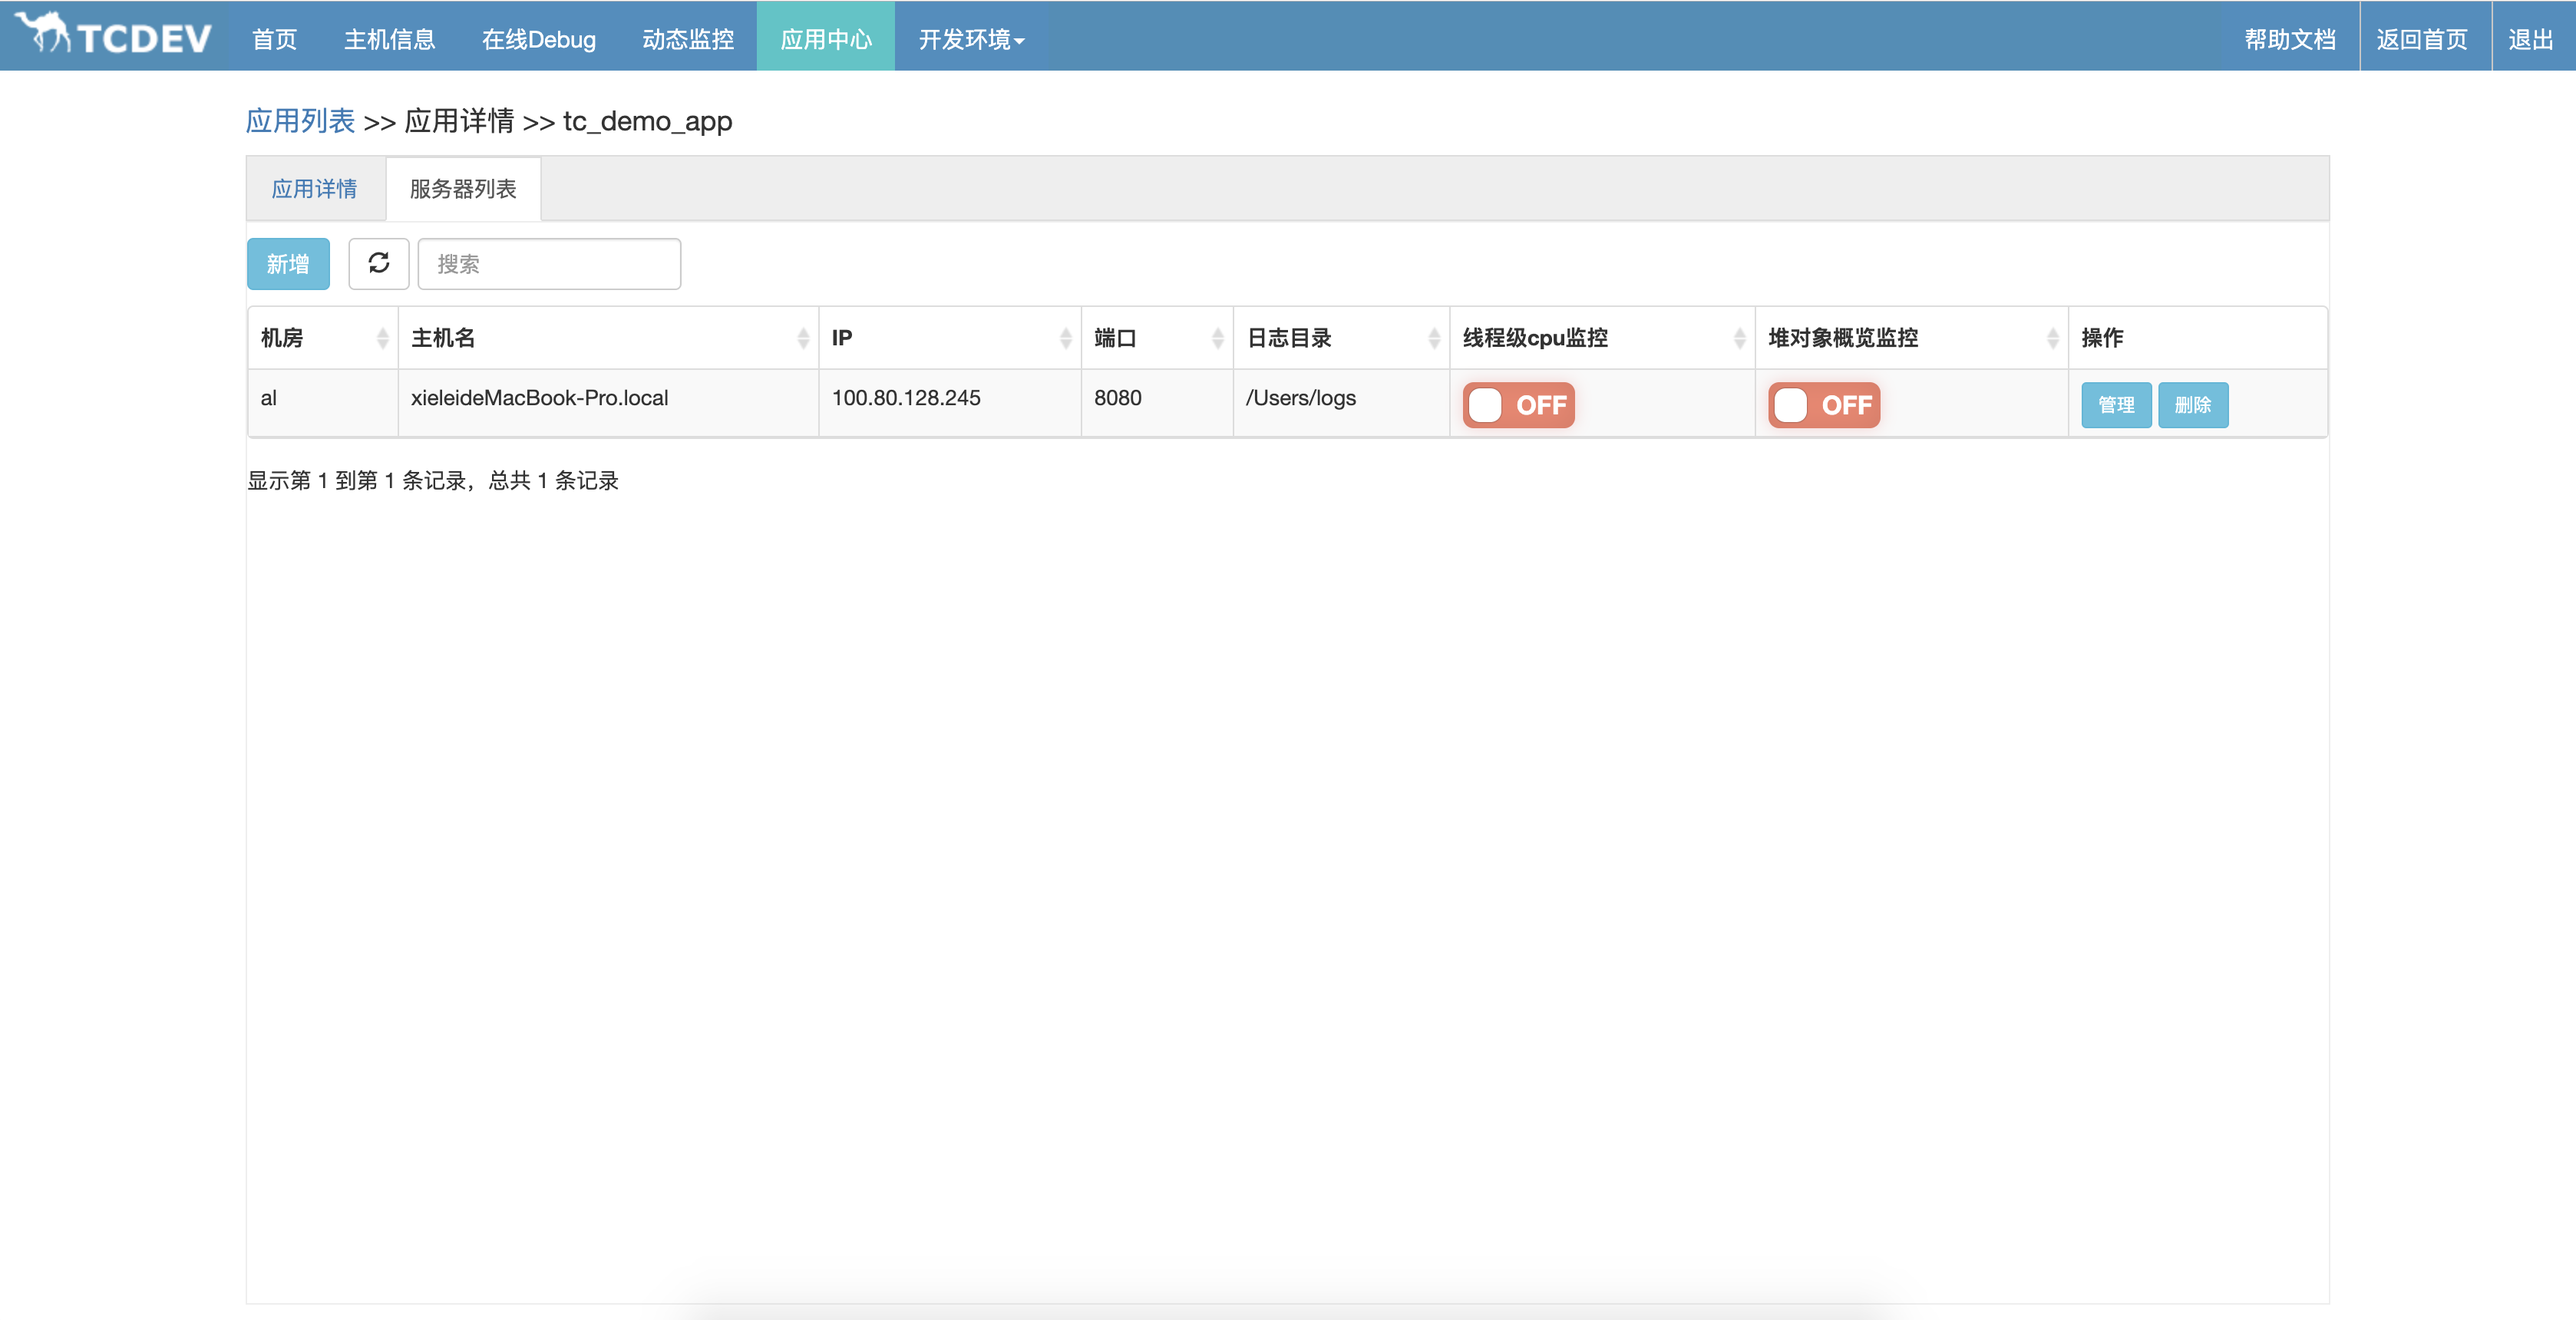
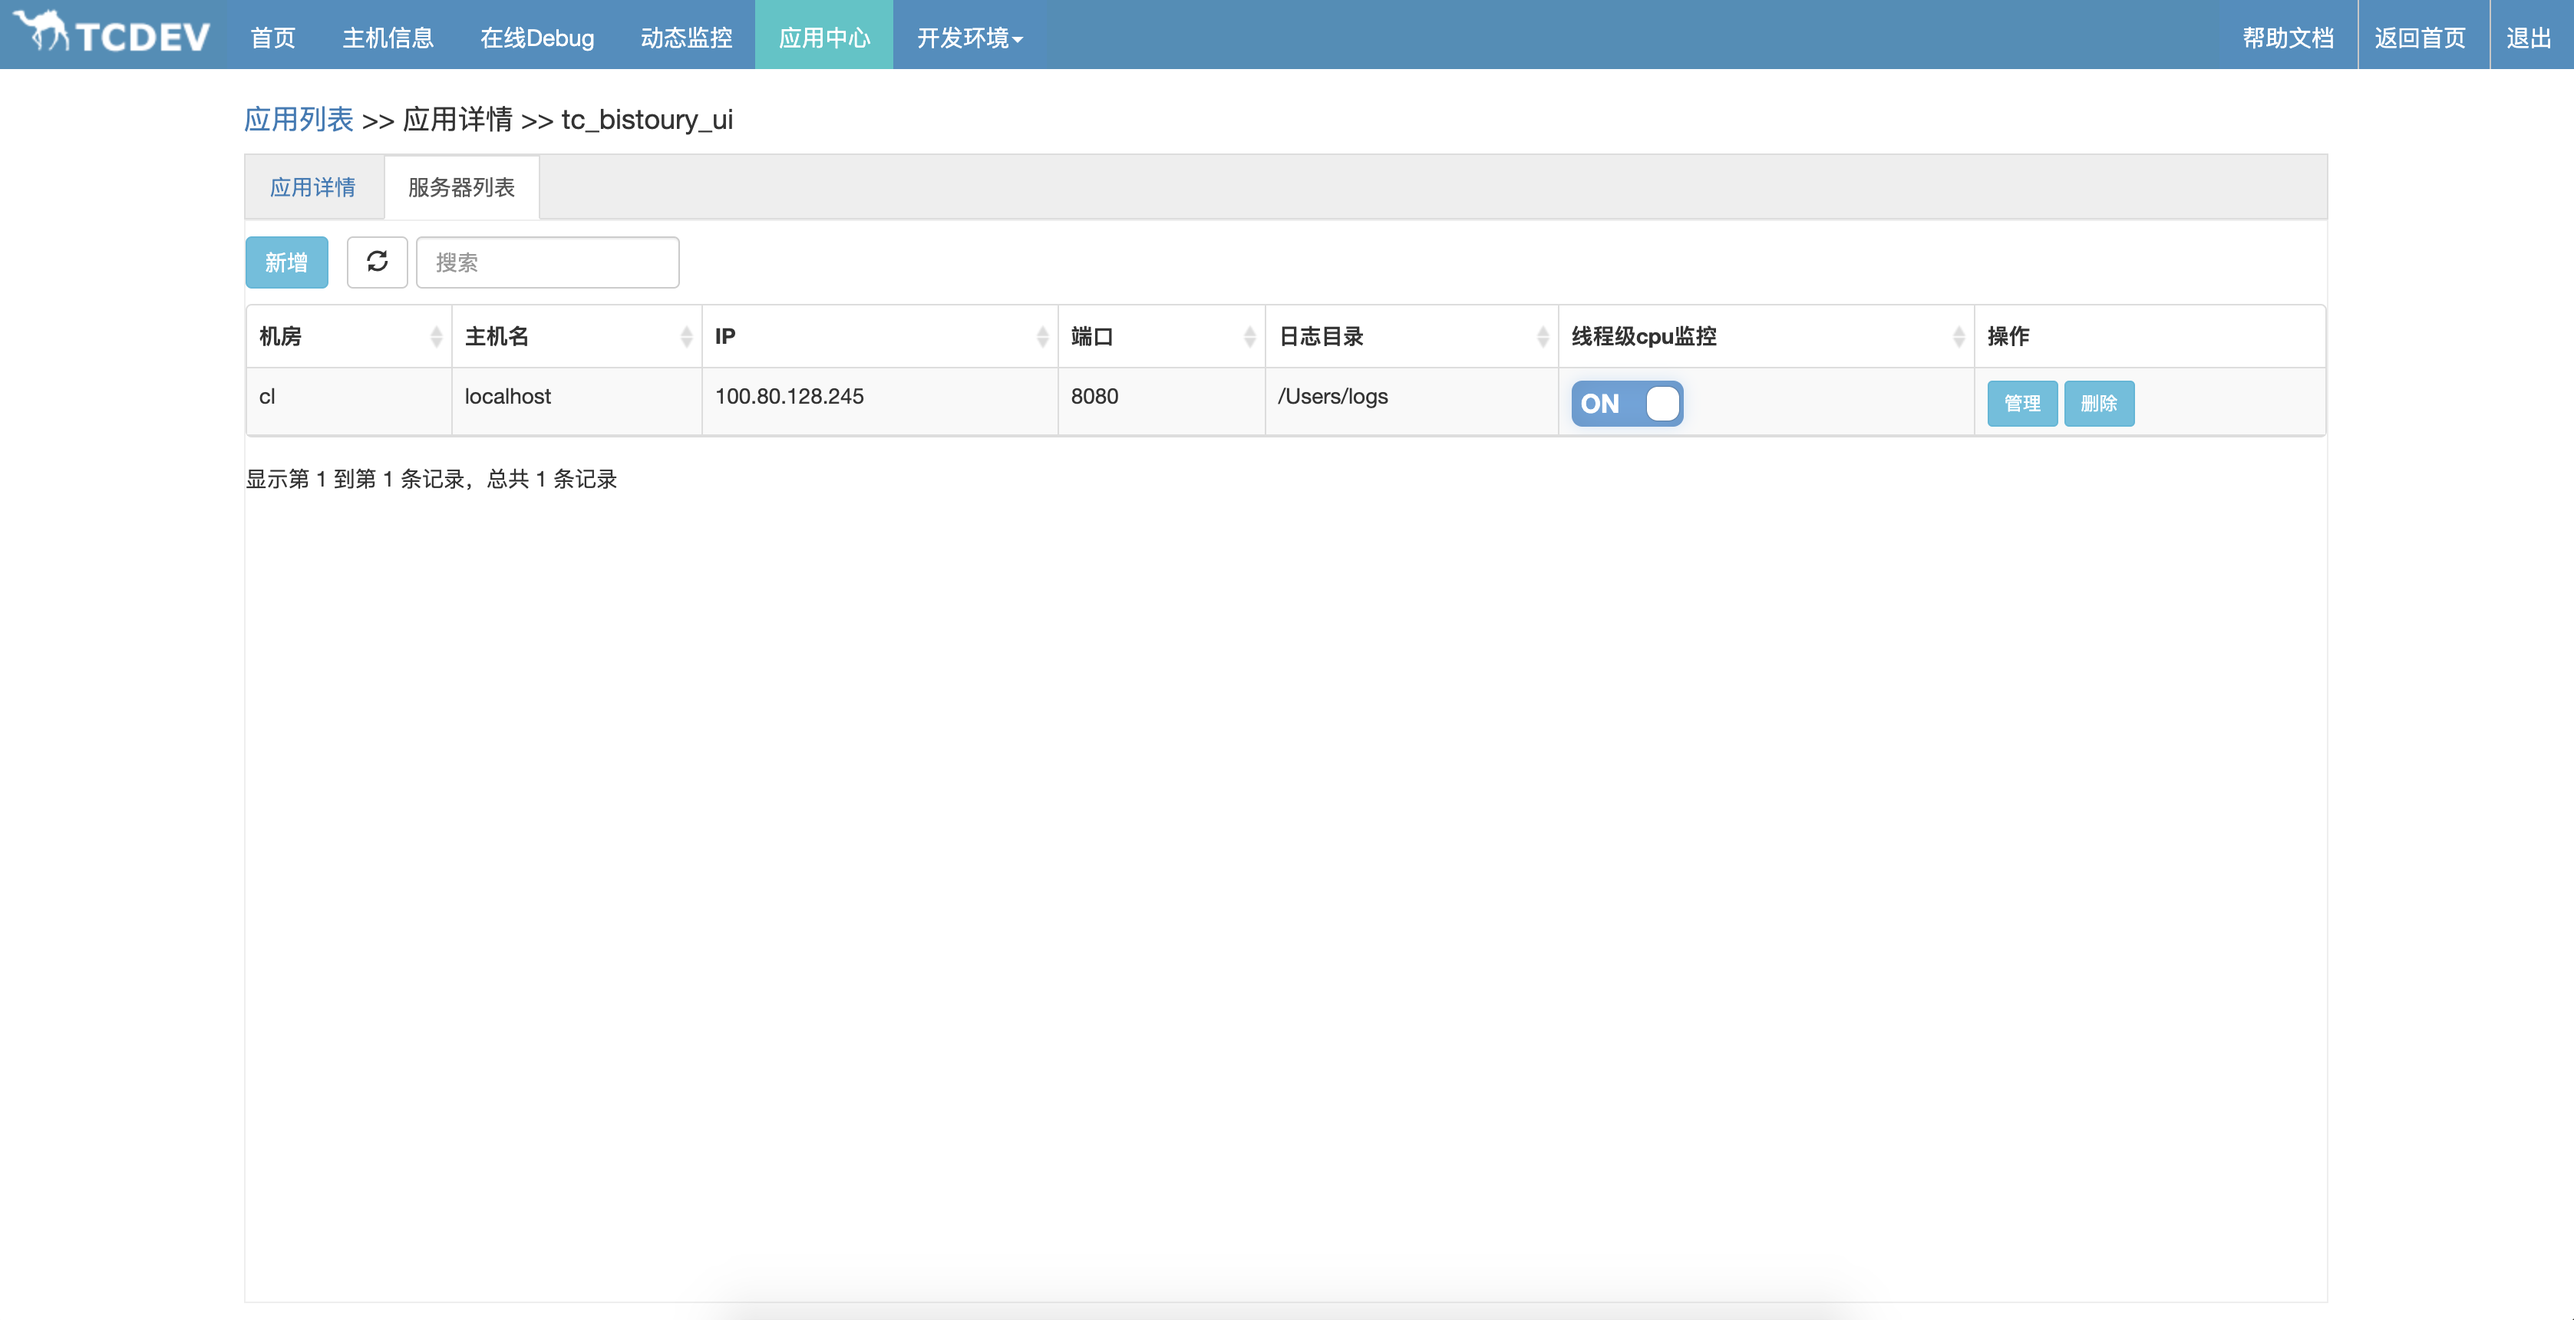
暂时关闭堆对象概览监控入口

diff --git a/bistoury-ui/src/main/webapp/js/machine.js b/bistoury-ui/src/main/webapp/js/machine.js
@@ -931,27 +931,29 @@ $(document).ready(function () {
         } else {
             firstIn.heapHisto = false;
             $("#heap-histo-time").val("")
-            getHeapHisto();
+            bistoury.info("自动查询已关闭，点击刷新图标查询数据");
+            //getHeapHisto();
         }
     });
 
     $("#heap-histo-search").click(function () {
-        var now = new Date(dateFormat(new Date())).getTime();
-        var dateStr = $("#heap-histo-time").val()
-        if (dateStr) {
-            var timestamp = new Date(dateStr).getTime();
-            if (now <= timestamp) {
-                bistoury.warning("查询时间不能超过当前时间");
-                return;
-            }
-            if (now - storeDays > timestamp) {
-                bistoury.warning("不能查询三天前的数据");
-                return;
-            }
-            getHeapHisto(timestamp);
-        } else {
-            bistoury.warning("请选择查询查询时间");
-        }
+        /* var now = new Date(dateFormat(new Date())).getTime();
+         var dateStr = $("#heap-histo-time").val()
+         if (dateStr) {
+             var timestamp = new Date(dateStr).getTime();
+             if (now <= timestamp) {
+                 bistoury.warning("查询时间不能超过当前时间");
+                 return;
+             }
+             if (now - storeDays > timestamp) {
+                 bistoury.warning("不能查询三天前的数据");
+                 return;
+             }
+             getHeapHisto(timestamp);
+         } else {
+             bistoury.warning("请选择查询查询时间");
+         }*/
+        bistoury.warning("该功能暂时不可用")
     })
 
     $("#thread-info-menu").click(function () {

diff --git a/bistoury-ui/src/main/webapp/js/application.js b/bistoury-ui/src/main/webapp/js/application.js
@@ -365,7 +365,7 @@ $(document).ready(function () {
                         return '<input type="checkbox" class="auto-enable autoJStackEnable" id="autoJStackEnable-' + index + '" name="autoJStackEnable"><label for="autoJStackEnable-' + index + '"></label>'
                     }
                 }
-            }, {
+            }, /*{
                 title: '堆对象概览监控',
                 field: 'autoJMapHistoEnable',
                 sortable: true,
@@ -378,7 +378,7 @@ $(document).ready(function () {
                         return '<input type="checkbox" class="auto-enable autoJMapHistoEnable" id="autoJMapHistoEnable-' + index + '" name="autoJMapHistoEnable"><label for="autoJMapHistoEnable-' + index + '"></label>'
                     }
                 }
-            }, {
+            },*/ {
                 title: '操作',
                 field: 'operate',
                 events: operateEvents,

diff --git a/docs/cn/quick_start.md b/docs/cn/quick_start.md
@@ -6,10 +6,10 @@ Bistoury具有多个模块，并且和公司自身环境有一定的关联，想
 
 >使用快速部署脚本，会在本机部署一整套Bistoury服务，其中包括ui、proxy、agent。
 
-快速启动依赖与h2数据库，会在启动时依赖初始化以下数据 
+快速启动依赖于h2数据库，会在启动时依赖初始化以下数据 
 - 一个用户名密码均为admin的用户
-- 在admin用户下初始化一个tc_demo_app应用
-- 将本机注册到tc_demo_app应用下作为一台服务器，如需要修改应用或服务器信息可以到[应用中心](application.md)修改
+- 在admin用户下初始化一个bistoury_demo_app应用
+- 将本机注册到bistoury_demo_app应用下作为一台服务器，如需要修改应用或服务器信息可以到[应用中心](application.md)修改
 
  ### 构建
 
